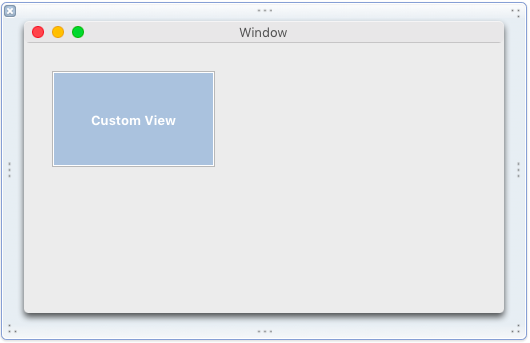
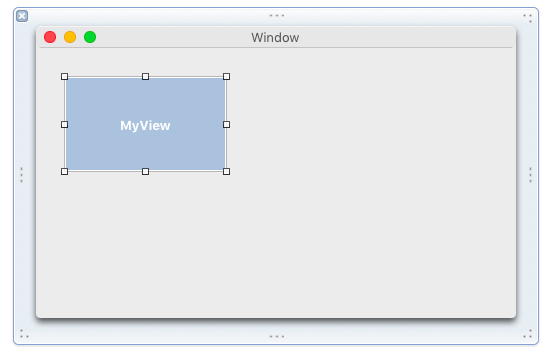
polishing

Changed region(s): [[0.0, 0.0, 0.9962, 1.0], [0.1811, 0.3207, 0.3321, 0.379]]

diff --git a/README.md b/README.md
@@ -1,4 +1,4 @@
-This is a simple "how to" document that describes how to make an app with a custom view in Swift3 using Xcode.  My current version of Xcode is 8.2.1.
+This write-up describes how to make an app with a custom view in Swift3 using Xcode.  My current version of Xcode is 8.2.1.
 
 ### Custom view
 
@@ -14,11 +14,11 @@ Next, select the View ***folder*** in the Project navigator.
 
 ![](figs/folder.png)
 
-Now do:  **File > New > File >**
+Do:  **File > New > File >**
 
 ![](figs/New_File_New.png)
 
-Make this a
+Make this a Cocoa class:
 
 ![](figs/Cocoa_class.png)
 
@@ -26,8 +26,6 @@ Make this a
 * name:  **MyView**
 * subclassing NSView
 * Swift language
-
-The second stage of this:
 
 ![](figs/NSView_subclass.png)
 
@@ -41,21 +39,24 @@ NSBezierPath.fill(bounds)
 ```
 This uses the new Swift3 syntax, substituting **.cyan** for **.cyanColor()**.
 
-Optional:  if you want to check this code you *could* do this:
+If you want to check this code you *could* perhaps do this:
 
 * click on **MainMenu.xib**
-* In IB click on the window's title bar
-* When the Identity Inspector shows NSView you have reached the window's Content View
-* change its class to MyView
+* In the .xib file, click on the window in the middle
+* If the Identity Inspector shows NSView it is the window's Content View
+* if not, click again
+* change the class to MyView
 * Build and run
 
 ![](figs/cyan_window.png)
 
 Now revert that change.
 
-Life will be better with a Window Controller.  If we create the new .swift file, Xcode will make the corresponding .xib file for us.
+### Window controller
 
-Select the SimpleView *folder* in the Project view.
+Life will be better with a Window Controller.  If we create a new .swift file for its code, Xcode will make the corresponding .xib file for us.
+
+As before, select the SimpleView *folder* in the Project view.
 
 Now do:  **File > New > File >**
 
@@ -65,27 +66,27 @@ Now do:  **File > New > File >**
 * Swift language
 
 
-Make sure to check Also create XIB file. 
+Make sure to check **Also create XIB file**. 
 
 ![](figs/mwc.png) 
 
-If you build and run at this point you'll see a window but it's not this one.  We have to tell our window to appear on screen.
+If you build and run at this point you'll see a window but it's not our window.  We have to tell our window we want it to appear on screen.
 
 
-In the **AppDelegate** (just below the Class declaration) and the IBOutlet declaration where it says 
+In the **AppDelegate** just below the Class declaration is the IBOutlet declaration where it says 
 
 ```css
 @IBOutlet weak var window: NSWindow!
 ```
 
- add this code so it reads
+ add an additional line so it reads
 
 ```css
 @IBOutlet weak var window: NSWindow!
 var mainWindowController: MainWindowController?
 ```
 
-Also, put something else in **applicationDidFinishLaunching**.  We add a window controller corresponding to a .xib file of the same name.
+There are three more lines to add to **applicationDidFinishLaunching** to set up a window controller.
 
 ```css
 let mwc = MainWindowController(windowNibName: "MainWindowController")
@@ -97,11 +98,11 @@ The Hillegass book says:  do setup first, then assignment.  So now set the prope
 self.mainWindowController = mwc
 ```
 
-(I might have resisted the urge to shorten "mainWindowController" to "mwc" here).
+I suppose I might have resisted the urge to shorten "mainWindowController" to "mwc" here.
 
-I also removed **applicationWillTerminate** from this file.
+You could remove **applicationWillTerminate** from the file as well.
 
-In the Project navigator, click on the new MainWindowController.xib file.  Place a custom view in the the window.  
+In the Project navigator, click on the new MainWindowController.xib file.  Drag a custom view from the palette out onto the the window.  
 
 ![](figs/custom_view.png) 
 
@@ -125,10 +126,12 @@ IBActions are connected to File's Owner seen in the "nib" (generated from the .x
     }
 ```
 
-Open **MainWindowController.xib** and drag a button onto the window.  Control-drag from the button to **File's Owner** and click on **button_pushedWithSender**.
+Open **MainWindowController.xib** and drag a button onto the window.  Control-drag from the button to **File's Owner** and select **button_pushedWithSender**.
 ![](figs/target_action.png) 
 
-**File's Owner** is the blue cube on the left.  The button is first selected before the drag.  In the black box that appears after the drag you will see **button_pushedWithSender**.  (Our method has had **WithSender** appended to it).
+**File's Owner** is the blue cube on the left.  The button is first selected before the drag.  In the black box that appears after the drag you will see **button_pushedWithSender**.  
+
+(Our method has had **WithSender** appended to it by Xcode/Interface Builder).
 
 Build and run and the log (in the Debug area) will show the first line of:
 
@@ -139,8 +142,7 @@ MWC:  button_pushed
 
 You will get the second line after you push the button in the running app.
 
-Our question at this point is:  how to handle an IBAction in MyView?  Xcode will not allow connection of the button in IB to the Custom View 
-even if the function code is in **MyView.swift**.
+Our question at this point is how to go from an IBAction to a method in MyView.  Xcode will not allow a direct connection of the button in IB to the Custom View even if code for the function is moved **MyView.swift**.
 
 We can get "key events" in the view by doing this:
 
@@ -150,7 +152,9 @@ override var acceptsFirstResponder: Bool { return true }
 
 but that's another story.
 
-So, we have to receive the action of the button in the MWC, but then call code elsewhere.  Which files have their functions visible across our code?  It turns out that simple Swift files are visible, but **MyView.swift** is not.  We need to explicitly hook it up.  Put this in **MyView.swift**
+So, we have to receive the action of the button in the MWC, but then call code elsewhere.  Which files have their functions visible across our code?
+
+It turns out that most simple Swift files are visible, but **MyView.swift** is not.  We need to explicitly hook it up.  Put this in **MyView.swift**
 
 ```
 func myViewDoIt() {
@@ -169,7 +173,9 @@ As mentioned, this code cannot be called directly from the MWC, even if we add t
 
 ![](figs/unresolved_identifier.png) 
 
-We need to let the MainWindowController "know about" MyView.  Put this code into **MainWindowController.swift** just after the class declaration.
+We need to let the MainWindowController "know about" MyView.  
+
+One way to solve this is to put this code into **MainWindowController.swift** just after the class declaration.
 
 ```css
 class MainWindowController: NSWindowController {
@@ -177,7 +183,7 @@ class MainWindowController: NSWindowController {
     @IBOutlet weak var myView: MyView!
 ```
 
-Then click on the .xib file and control drag from **File's Owner** to the custom view.  It helps to select the custom view first.  It will show "Outlets".  Choose "myView".  Finally, change the code in **MainWindowController.swift** slightly to
+Then go to the .xib file and control drag from **File's Owner** to the custom view.  It helps to select the custom view first.  It will show "Outlets".  Choose "myView".  Finally, change the code in **MainWindowController.swift** slightly to
 
 
 ```css
@@ -228,9 +234,11 @@ MyView:  myViewDoIt
 Helper:  helperDoIt
 ```
 
-We can pass data from the helper to the calling function just by returning it.  However, you may occasionally need to obtain a reference to the MainWindowController (or the View) from somewhere like **Helper.swift**.
+We can pass data from the helper to the calling function just by returning the right data structure.  
 
-We can get a reference to the App Delegate and MWC with:
+However, you may occasionally need to obtain a reference to the MainWindowController (or the View) from somewhere like **Helper.swift**.
+
+We obtain a reference to the App Delegate and MWC with:
 
 ```css
 import Cocoa
@@ -239,9 +247,11 @@ let ad = NSApplication.shared().delegate as! AppDelegate
 let mwc = ad.mainWindowController!
 ```
 
-This can be at the top of the file in **Helper.swift**.  Note that the default is **import Foundation**.  But for our swift code to know about **NSApplication** and so on, we need Cocoa.
+This can be at the top of the file in **Helper.swift**.  
 
-Put a second button on the window and connect it to File's Owner / MWC to
+Note that the default import is to **import Foundation**.  But for our swift code to know what **NSApplication** is, we need Cocoa.
+
+Put a second button on the window and connect it to File's Owner and thus to MainWindowController
 
 ```csss
 @IBAction func button2_pushed(sender: AnyObject) {
@@ -268,9 +278,11 @@ Helper:  helperDoIt2
 MyView:  myViewDoIt
 ```
 
-We have propagated a signal from the button to the MWC to the Helper;  grabbed a reference there to the App Delegate and then to the MWC, to its outlet the View, and then finally called a function in the View.
+We have propagated an action from the button to the MWC to the Helper;  grabbed a reference there to the App Delegate and thus to the MWC, passed the action to its outlet myView, and then finally called a function in the view.
 
-One last detail about Views.  It happens that code can change the model but the view will not be updated.  The way to force the view to redraw itself is to put something like this in the view
+One last detail about views.  It happens that code can change the status of the model, but the view is not appropriately updated.  
+
+The way to force the view to redraw itself is to put something like this in the view
 
 ```css
     func refreshScreen() {
@@ -279,7 +291,7 @@ One last detail about Views.  It happens that code can change the model but the 
     }
 ```
 
-and call it through some variation on what we have above.
+and when necessary call it through some variation on what we have above.
 
-Well, that's it for this basic introduction.  Hope this is useful to you, I know it will be for me.
+That's it for this basic introduction.  Hope this is useful to you, I know it will be for me.
 
